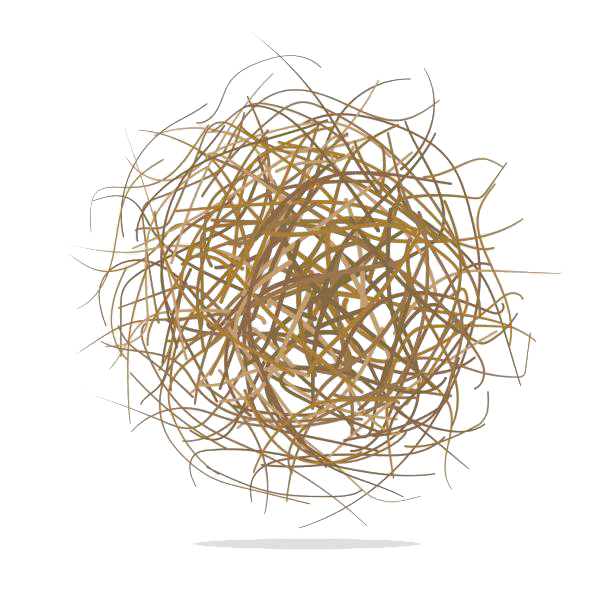
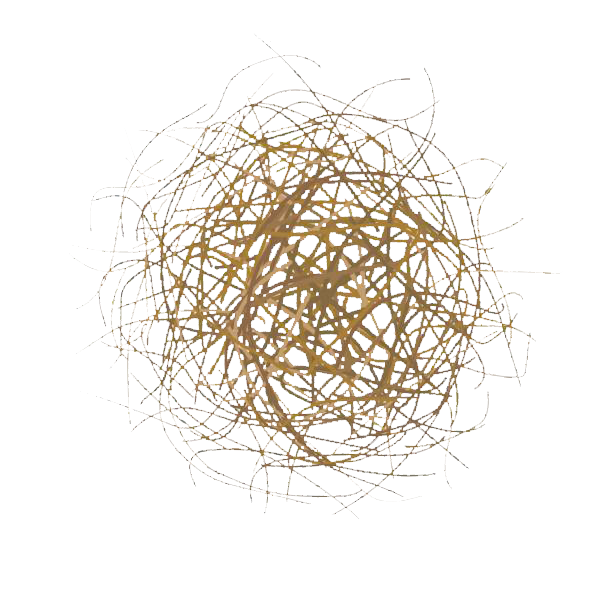
star

Changed region(s): [[0.1552, 0.1242, 0.8693, 0.8382], [0.3105, 0.8693, 0.683, 0.9003]]

diff --git a/src/Tableau1.js b/src/Tableau1.js
@@ -17,7 +17,7 @@ class Tableau1 extends Phaser.Scene{
 
         this.load.image('fil','image/filante.png')
         this.load.image('ovni','image/ovni.png')
-        this.load.image('virevoltant','image/virevoltant.png')
+        this.load.image('virevolant','image/virevolant.png')
 
 
         //au lieu d'écrire 5 lignes quasi identiques, on charge l'herbe avec une boucle
@@ -88,12 +88,13 @@ class Tableau1 extends Phaser.Scene{
         this.ovni = this.add.sprite(100,50, 'ovni').setOrigin(0,0);
         this.ovni.setScale(0.01)
 
-        this.virevoltant = this.add.sprite(100,50, 'virevoltant').setOrigin(0,0);
+        this.virevolant = this.add.image(1200,700, 'virevolant').setOrigin(0,0);
+        this.virevolant.setScale(0.3)
+
         /**
          * filtre type Rain au premier plan
          * @type {Phaser.GameObjects.Sprite}
          */
-
 
         //TODO élève faire une animation du même genre que filter mais pour bgAnimationA
 
@@ -141,7 +142,6 @@ class Tableau1 extends Phaser.Scene{
                                 me.filant.x = 800;
                                 me.filant.y = 0;
                             }
-
                     });
 
                     break;
@@ -174,7 +174,18 @@ class Tableau1 extends Phaser.Scene{
                     }
                     break;
                 case Phaser.Input.Keyboard.KeyCodes.N:
-
+                    me.tweens.add({
+                        targets: me.virevolant,
+                        x: { value: -600, duration: 5000, ease: 'Power2' },
+                        y: { value: 400, duration: 2500, ease: 'Bounce.easeIn' },
+                        ease: 'Linear',
+                        repeat: 0,
+                        delay: 0,
+                        onComplete: function () {
+                            me.virevolant.x = 800;
+                            me.virevolant.y = 700;
+                        }
+                    });
                     break;
                 case Phaser.Input.Keyboard.KeyCodes.D:
 
